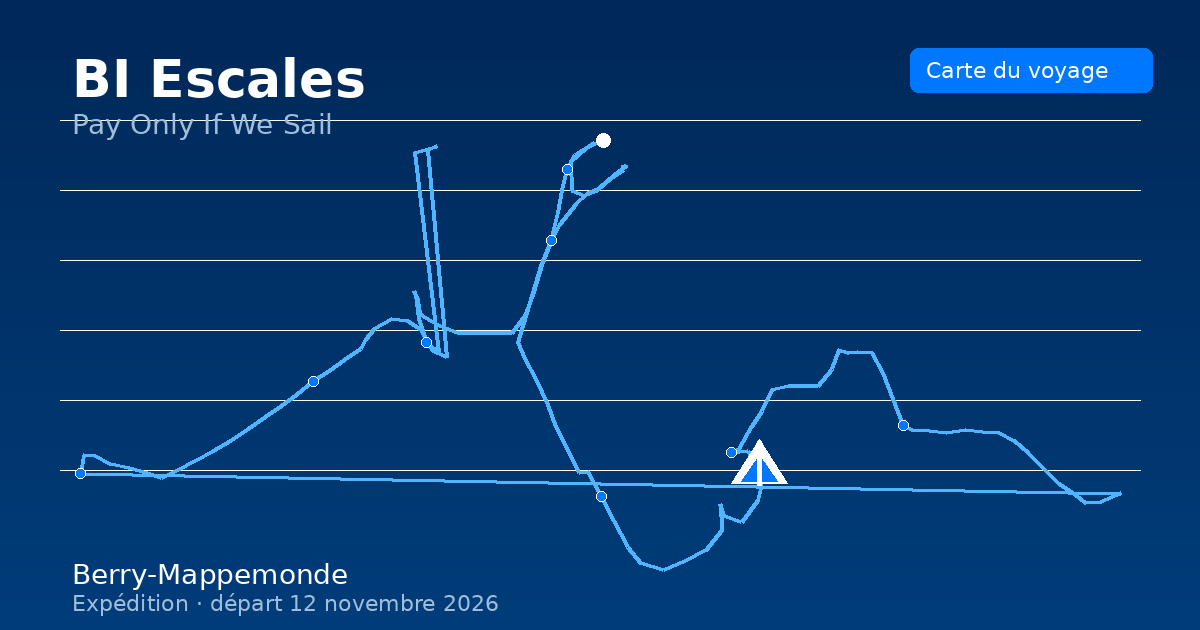
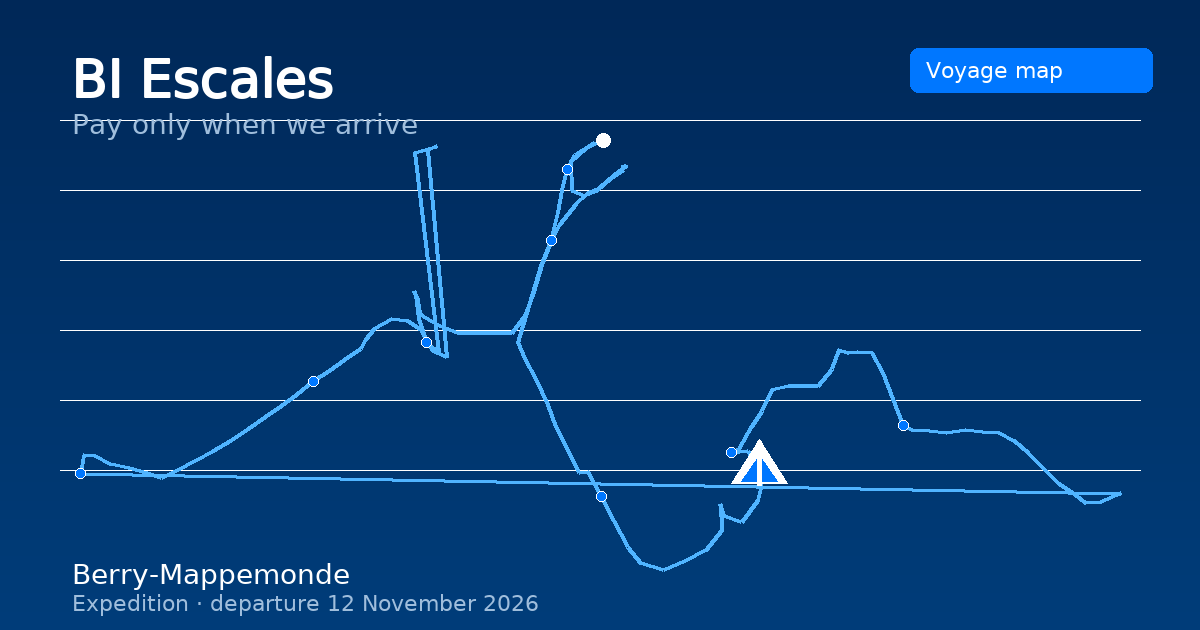
feat(seo): 404 for paths the app does not know, hreflang links, share image in English
Ports what is still missing from #189 (SEO-HEAD-EN).

- An unknown path still gets the page's HTML, so the app loads, but with status
  404 instead of 200. The known paths mirror Root.tsx: "/", the wishlist page,
  and the two project onboarding pages (the PayPal sign-up return among them).
  Real files and /api paths are unchanged.
- hreflang links for English and French, at the ?lang= addresses the app reads.
- The share image says "Pay only when we arrive" and is in English, like the
  share text. The script can now redraw it on any machine with the font the
  backend already ships.

Changed region(s): [[0.0617, 0.0905, 0.3392, 0.2111], [0.0925, 0.8746, 0.4625, 0.9952], [0.7708, 0.0905, 0.925, 0.1508]]

diff --git a/bi-escales/frontend/src/indexHtmlMeta.test.ts b/bi-escales/frontend/src/indexHtmlMeta.test.ts
@@ -26,6 +26,13 @@ describe("index.html site meta", () => {
     expect(indexHtml).not.toMatch(/Pay Only If We Sail|si nous partons/i);
   });
 
+  it("points search engines at both languages, by the address the app reads", () => {
+    // The app chooses its language from ?lang=, not from the path.
+    expect(indexHtml).toMatch(/rel="alternate"\s+hreflang="en"\s+href="https:\/\/escales\.naviguide\.fr\/\?lang=en"/i);
+    expect(indexHtml).toMatch(/rel="alternate"\s+hreflang="fr"\s+href="https:\/\/escales\.naviguide\.fr\/\?lang=fr"/i);
+    expect(indexHtml).toMatch(/rel="alternate"\s+hreflang="x-default"\s+href="https:\/\/escales\.naviguide\.fr\/"/i);
+  });
+
   it("exposes social preview image tags with absolute URLs", () => {
     const ogImage = "https://escales.naviguide.fr/og-image.png";
     expect(indexHtml).toMatch(new RegExp(`property="og:image"\\s+content="${ogImage}"`));

diff --git a/bi-escales/frontend/index.html b/bi-escales/frontend/index.html
@@ -9,6 +9,9 @@
     />
     <title>BI Escales — Pay only when we arrive</title>
     <link rel="canonical" href="https://escales.naviguide.fr/" />
+    <link rel="alternate" hreflang="en" href="https://escales.naviguide.fr/?lang=en" />
+    <link rel="alternate" hreflang="fr" href="https://escales.naviguide.fr/?lang=fr" />
+    <link rel="alternate" hreflang="x-default" href="https://escales.naviguide.fr/" />
     <link rel="icon" href="/favicon.svg" type="image/svg+xml" />
     <meta property="og:title" content="BI Escales — Pay only when we arrive" />
     <meta

diff --git a/bi-escales/backend/tests/test_spa_soft_404.py b/bi-escales/backend/tests/test_spa_soft_404.py
@@ -1,0 +1,105 @@
+"""An unknown path gets the page with status 404; the paths the app knows get 200."""
+from __future__ import annotations
+
+from pathlib import Path
+
+import pytest
+from fastapi import FastAPI
+from fastapi.testclient import TestClient
+
+import app.main as main
+from app.spa_client_routes import is_known_client_route, normalize_client_path
+
+_INDEX = """<!doctype html>
+<html lang="en">
+<head><title>BI Escales — Pay only when we arrive</title></head>
+<body><div id="root"></div></body>
+</html>
+"""
+
+KNOWN = [
+    "/",
+    "/escales/wishlists",
+    "/escales/wishlists/",
+    "/fr/escales/wishlists",
+    "/projects/projet-recifs/onboarding",
+    "/projects/projet-recifs/onboarding/return",
+    "/projects/a%20b/onboarding/return",
+]
+
+UNKNOWN = [
+    "/unknown-spa-route",
+    "/escales",
+    "/escales/wishlists/extra",
+    "/wishlists",
+    "/projects",
+    "/projects/projet-recifs",
+    "/projects/projet-recifs/onboarding/return/again",
+    "/projects//onboarding",
+    "/wp-login.php",
+]
+
+
+@pytest.fixture()
+def client(monkeypatch, tmp_path) -> TestClient:
+    dist = tmp_path / "dist"
+    dist.mkdir(parents=True)
+    (dist / "index.html").write_text(_INDEX, encoding="utf-8")
+    (dist / "robots.txt").write_text("User-agent: *\n", encoding="utf-8")
+    monkeypatch.setattr(main, "frontend_dist", lambda: dist)
+    application = FastAPI()
+    main.attach_frontend(application)
+    return TestClient(application)
+
+
+@pytest.mark.parametrize("path", KNOWN)
+def test_known_paths_answer_200_with_the_page(client, path):
+    res = client.get(path)
+    assert res.status_code == 200
+    assert '<div id="root">' in res.text
+
+
+@pytest.mark.parametrize("path", UNKNOWN)
+def test_unknown_paths_answer_404_and_still_send_the_page(client, path):
+    res = client.get(path)
+    assert res.status_code == 404
+    assert res.headers["content-type"].startswith("text/html")
+    assert '<div id="root">' in res.text
+    assert client.head(path).status_code == 404
+
+
+def test_paypal_return_addresses_stay_200(client):
+    # Orders, vault and subscriptions come back to "/" with a query string.
+    for query in ("?paypal=return", "?vault=approved", "?sub=approved", "?lang=fr"):
+        assert client.get("/" + query).status_code == 200
+
+
+def test_a_real_file_is_still_served_as_itself(client):
+    res = client.get("/robots.txt")
+    assert res.status_code == 200
+    assert "<div" not in res.text
+
+
+def test_api_paths_never_get_the_page(client):
+    res = client.get("/api/not-a-route")
+    assert res.status_code == 404
+    assert "<div" not in res.text
+
+
+def test_normalize_client_path():
+    assert normalize_client_path("/") == ""
+    assert normalize_client_path("") == ""
+    assert normalize_client_path("/escales/wishlists/") == "escales/wishlists"
+    assert is_known_client_route("") is True
+
+
+def test_the_list_follows_the_frontend_router():
+    """Root.tsx decides what the app shows; if its paths change, this list must follow."""
+    root = Path(__file__).resolve().parents[2] / "frontend" / "src" / "Root.tsx"
+    text = root.read_text(encoding="utf-8")
+    assert '"/escales/wishlists"' in text
+    assert 'path.endsWith("/escales/wishlists")' in text
+    assert r"/^\/projects\/([^/]+)\/onboarding$/" in text
+    assert r"/^\/projects\/([^/]+)\/onboarding\/return$/" in text
+    # Exactly these two kinds of path are matched there: a third needs a line here and in spa_client_routes.py.
+    assert text.count("path.match(") == 2

diff --git a/bi-escales/scripts/generate_og_image.py b/bi-escales/scripts/generate_og_image.py
@@ -10,6 +10,7 @@ from PIL import Image, ImageDraw, ImageFont
 ROOT = Path(__file__).resolve().parents[1]
 OUT = ROOT / "frontend" / "public" / "og-image.png"
 ROUTE = ROOT / "frontend" / "public" / "route.geojson"
+BUNDLED_FONT = ROOT / "backend" / "app" / "escales" / "assets" / "DejaVuSans.ttf"
 
 W, H = 1200, 630
 NAVY = (0, 61, 122)
@@ -58,7 +59,20 @@ def _font(size: int, bold: bool = False) -> ImageFont.FreeTypeFont | ImageFont.I
     for path in candidates:
         if Path(path).is_file():
             return ImageFont.truetype(path, size)
+    # The regular face the backend ships: the picture can be redrawn on any machine.
+    if BUNDLED_FONT.is_file():
+        return ImageFont.truetype(str(BUNDLED_FONT), size)
     return ImageFont.load_default()
+
+
+def _has_bold_face() -> bool:
+    return any(
+        Path(path).is_file()
+        for path in (
+            "/usr/share/fonts/truetype/dejavu/DejaVuSans-Bold.ttf",
+            "/usr/share/fonts/truetype/liberation/LiberationSans-Bold.ttf",
+        )
+    )
 
 
 def main() -> None:
@@ -96,19 +110,27 @@ def main() -> None:
     sub_font = _font(28, bold=False)
     small_font = _font(22, bold=False)
 
-    draw.text((72, 48), "BI Escales", font=title_font, fill=WHITE)
-    draw.text((72, 108), "Pay Only If We Sail", font=sub_font, fill=MUTED)
+    # Without a bold face on this machine, a one-pixel stroke thickens the regular one.
+    draw.text(
+        (72, 48),
+        "BI Escales",
+        font=title_font,
+        fill=WHITE,
+        stroke_width=0 if _has_bold_face() else 1,
+        stroke_fill=WHITE,
+    )
+    draw.text((72, 108), "Pay only when we arrive", font=sub_font, fill=MUTED)
     draw.text((72, H - 72), "Berry-Mappemonde", font=sub_font, fill=WHITE)
     draw.text(
         (72, H - 40),
-        "Expédition · départ 12 novembre 2026",
+        "Expedition · departure 12 November 2026",
         font=small_font,
         fill=MUTED,
     )
 
     badge_x, badge_y = W - 290, 48
     draw.rounded_rectangle((badge_x, badge_y, W - 48, badge_y + 44), radius=8, fill=ACCENT)
-    draw.text((badge_x + 16, badge_y + 9), "Carte du voyage", font=small_font, fill=WHITE)
+    draw.text((badge_x + 16, badge_y + 9), "Voyage map", font=small_font, fill=WHITE)
 
     OUT.parent.mkdir(parents=True, exist_ok=True)
     img.save(OUT, format="PNG", optimize=True)

diff --git a/bi-escales/backend/app/spa_client_routes.py b/bi-escales/backend/app/spa_client_routes.py
@@ -1,0 +1,29 @@
+"""Which paths the single-page app knows, so that an unknown one answers 404.
+
+Mirrors ``frontend/src/Root.tsx``: the map at ``/``, the wishlist page, and the
+two project onboarding pages (the second one is where PayPal sends a project
+back after it signs up). Every other path still gets the page's HTML, so the
+app loads and shows the map, but with status 404 instead of 200: a crawler or
+a link checker then knows the address does not exist.
+"""
+from __future__ import annotations
+
+import re
+
+_WISHLISTS = "escales/wishlists"
+_ONBOARDING = re.compile(r"^projects/[^/]+/onboarding(/return)?$")
+
+
+def normalize_client_path(full_path: str) -> str:
+    """``/``, ``/escales/wishlists/`` and ``escales/wishlists`` in one form: no outer slashes."""
+    return (full_path or "").strip().strip("/")
+
+
+def is_known_client_route(full_path: str) -> bool:
+    path = normalize_client_path(full_path)
+    if path == "":
+        return True
+    # Root.tsx shows the wishlist page for any path that ends with it.
+    if path == _WISHLISTS or path.endswith("/" + _WISHLISTS):
+        return True
+    return bool(_ONBOARDING.match(path))

diff --git a/bi-escales/backend/app/main.py b/bi-escales/backend/app/main.py
@@ -12,6 +12,7 @@ from app.bi_marinas_catalog import build_escale_fiche, get_all_escale_marinas_ge
 from app.bi_projects_catalog import get_bi_projects_geojson
 from app.escales.config import cors_origins, resolve_apple_pay_domain_association_path
 from app.middleware.security_headers import install_security_headers
+from app.spa_client_routes import is_known_client_route
 
 app = FastAPI(title="BI Escales — Pay Only If We Sail")
 
@@ -123,7 +124,9 @@ def attach_frontend(application: FastAPI) -> None:
         candidate = (dist / full_path).resolve() if full_path else index
         if full_path and candidate.is_file() and str(candidate).startswith(str(dist)):
             return FileResponse(candidate)
-        return FileResponse(index)
+        # The page itself for every path, so the app always loads; 404 for a path
+        # the app does not know, so an address that does not exist says so.
+        return FileResponse(index, status_code=200 if is_known_client_route(full_path) else 404)
 
 
 attach_frontend(app)

diff --git a/bi-escales/backend/tests/test_site_meta_static.py b/bi-escales/backend/tests/test_site_meta_static.py
@@ -50,7 +50,8 @@ def test_robots_and_sitemap_from_dist(monkeypatch, tmp_path):
     assert favicon.status_code == 200
     assert client.head("/favicon.svg").status_code == 200
 
+    # An unknown path still gets the page, so the app loads, but says 404.
     spa = client.get("/unknown-spa-route")
-    assert spa.status_code == 200
+    assert spa.status_code == 404
     assert spa.headers["content-type"].startswith("text/html")
     assert "BI Escales" in spa.text
